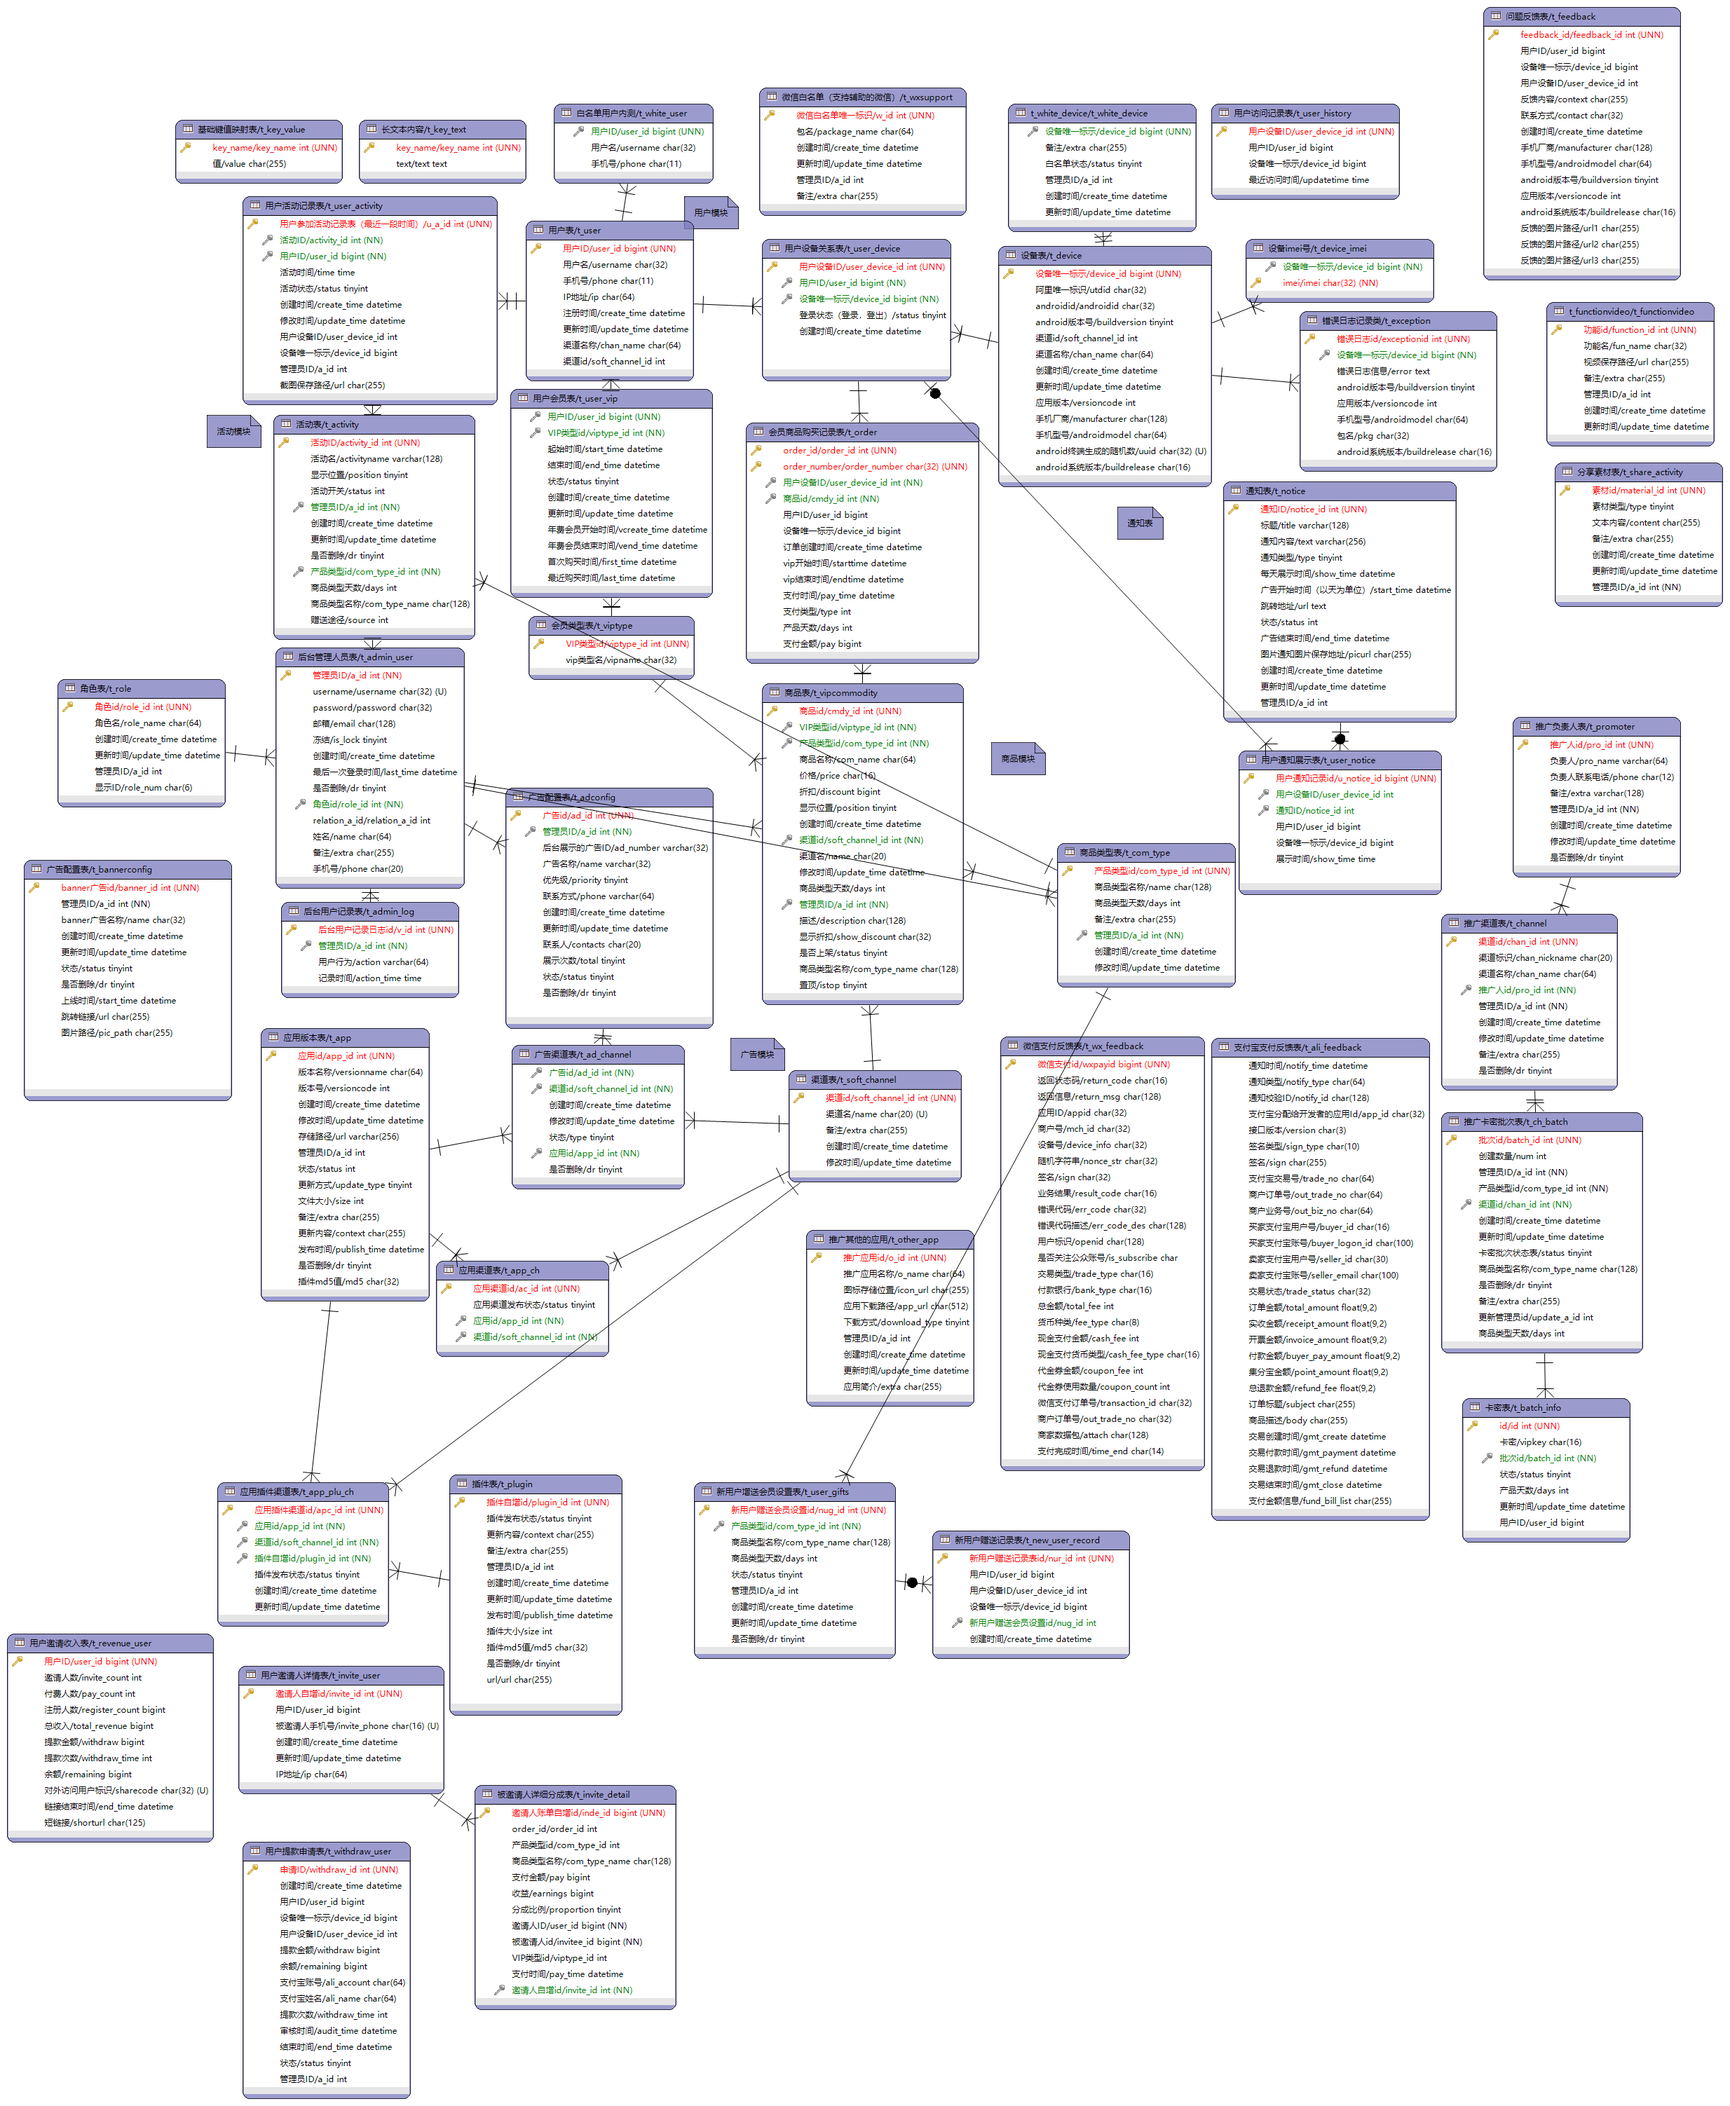
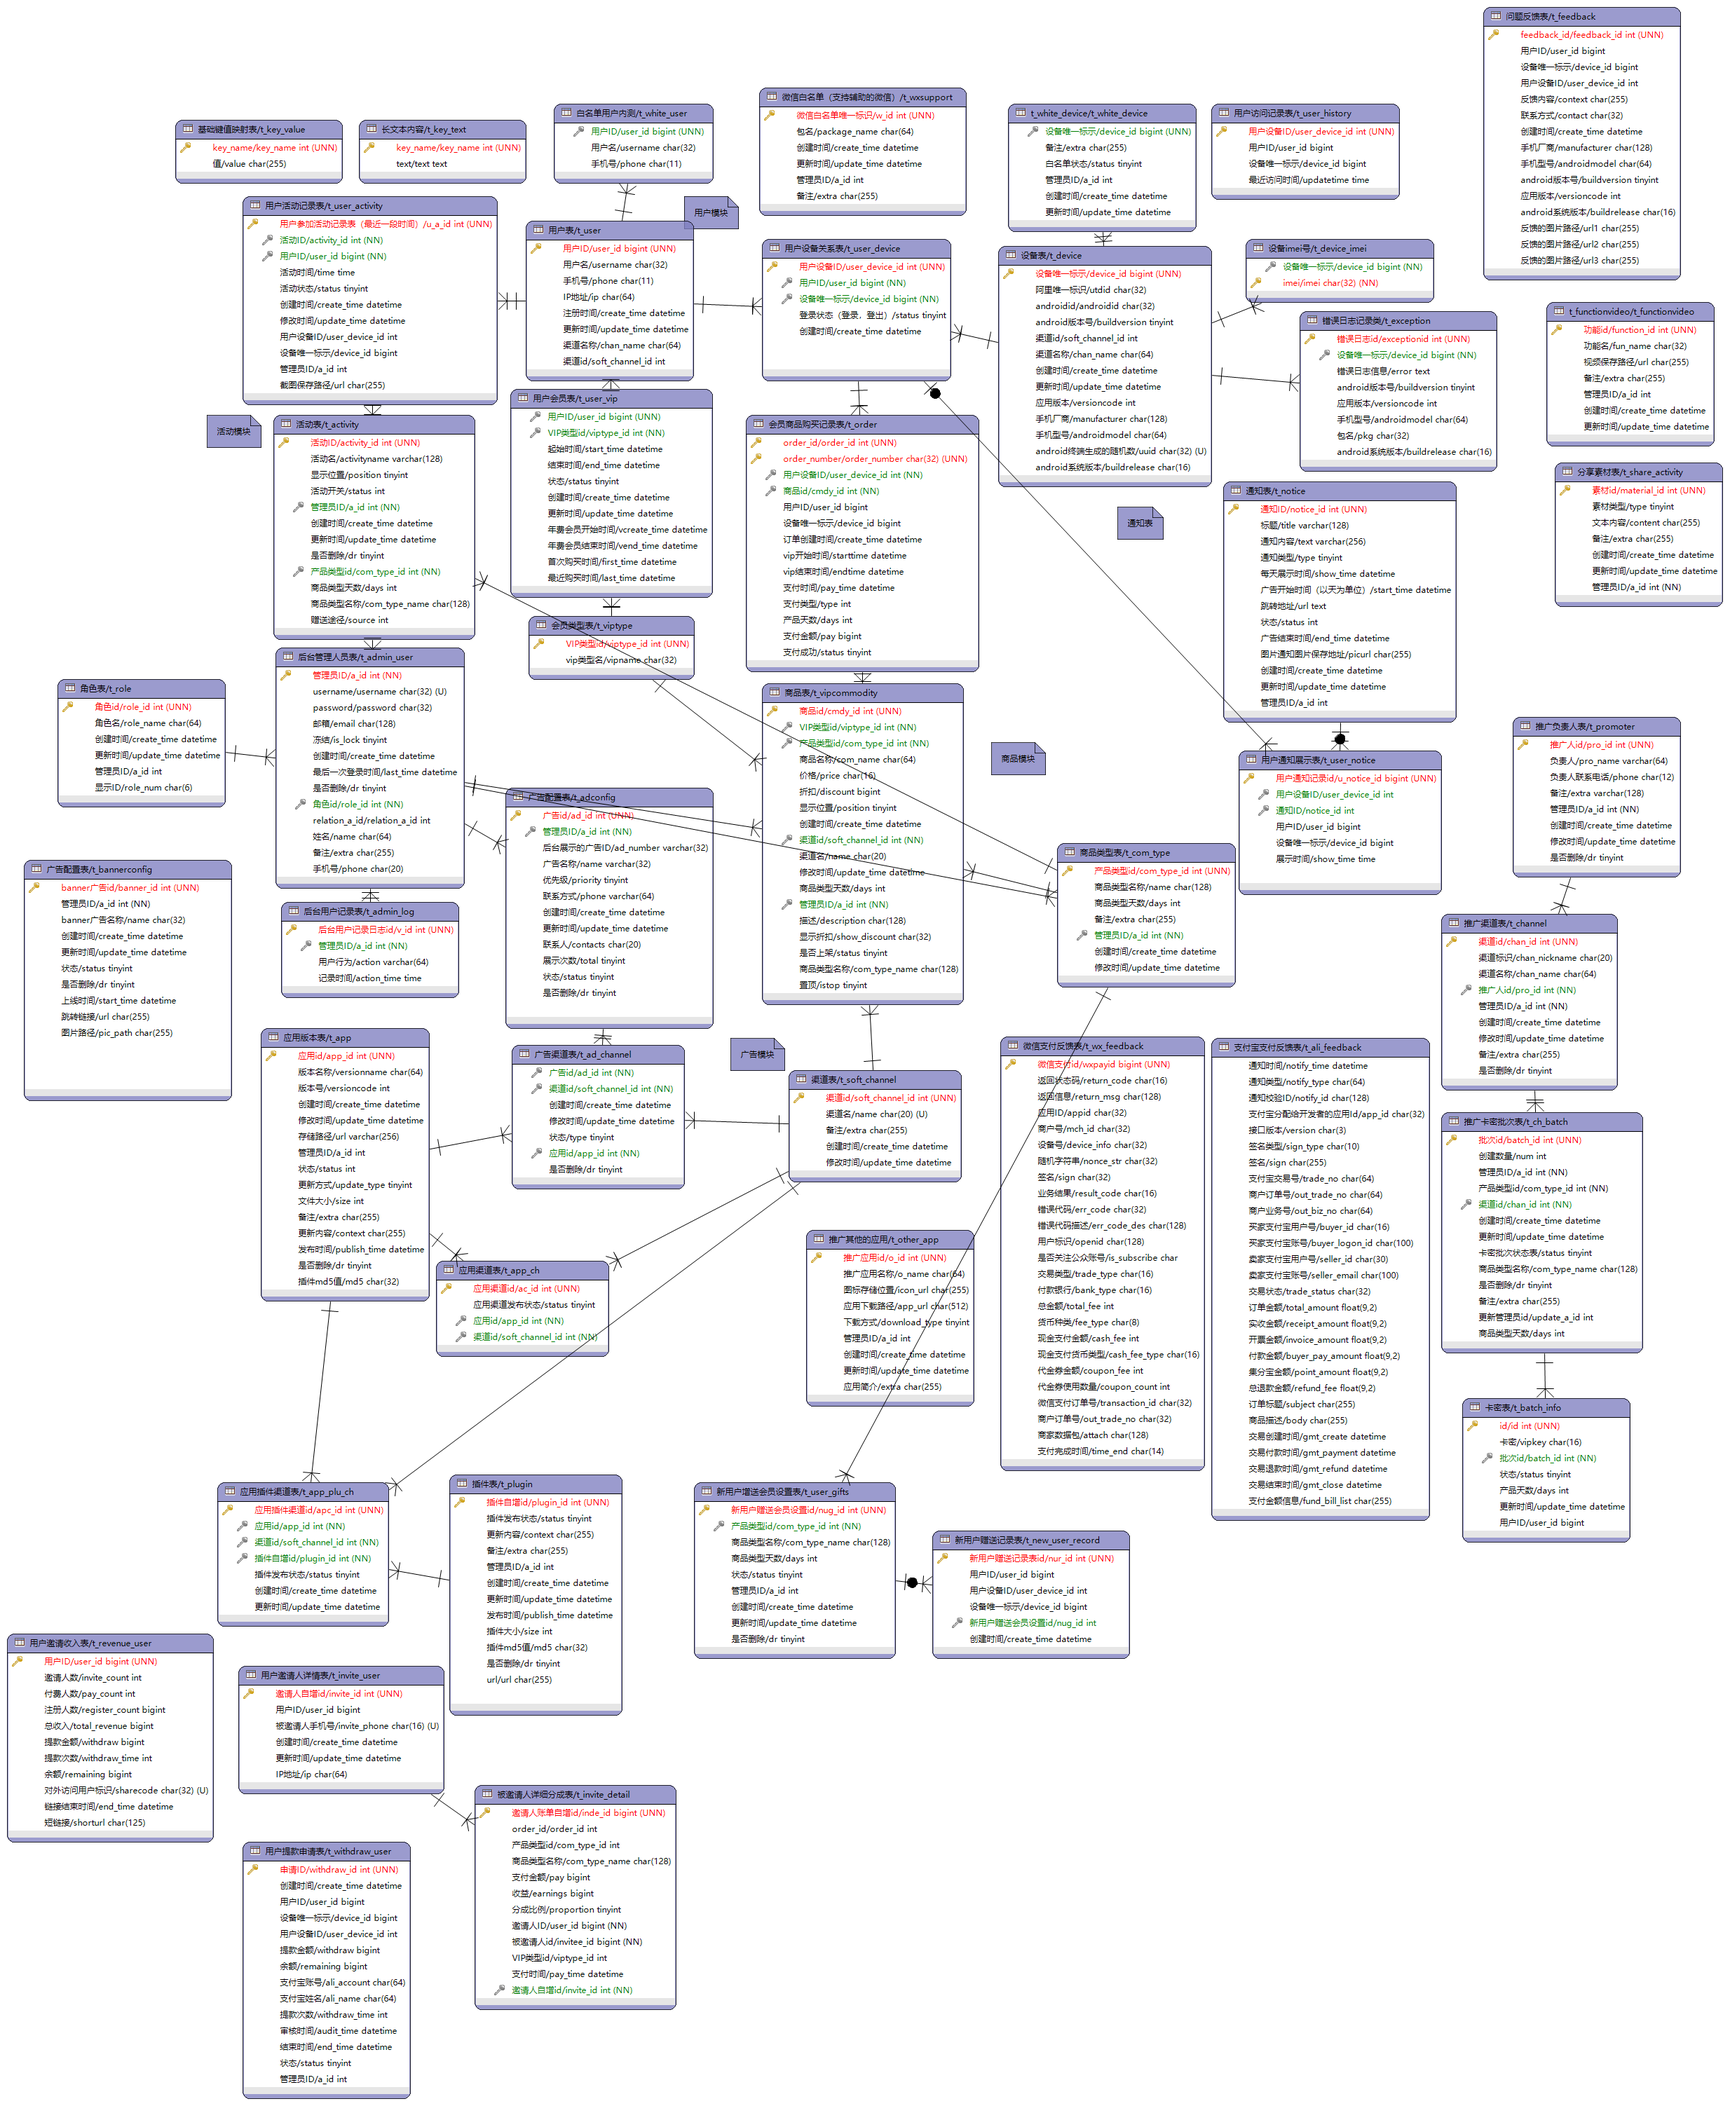
更新订单表和页面title

Changed region(s): [[0.4368, 0.1857, 0.5616, 0.3404]]

diff --git a/smartconsumer/src/main/java/com/rpa/consumer/pojo/OrderPO.java b/smartconsumer/src/main/java/com/rpa/consumer/pojo/OrderPO.java
@@ -33,6 +33,11 @@ public class OrderPO extends OrderPOKey implements Serializable {
 
     private Long pay;
 
+    /**
+     * 1 未支付  2 支付成功
+     */
+    private Byte status;
+
     private static final long serialVersionUID = 1L;
 
     public Integer getUserDeviceId() {
@@ -123,6 +128,14 @@ public class OrderPO extends OrderPOKey implements Serializable {
         this.pay = pay;
     }
 
+    public Byte getStatus() {
+        return status;
+    }
+
+    public void setStatus(Byte status) {
+        this.status = status;
+    }
+
     @Override
     public boolean equals(Object that) {
         if (this == that) {
@@ -147,7 +160,8 @@ public class OrderPO extends OrderPOKey implements Serializable {
             && (this.getPayTime() == null ? other.getPayTime() == null : this.getPayTime().equals(other.getPayTime()))
             && (this.getType() == null ? other.getType() == null : this.getType().equals(other.getType()))
             && (this.getDays() == null ? other.getDays() == null : this.getDays().equals(other.getDays()))
-            && (this.getPay() == null ? other.getPay() == null : this.getPay().equals(other.getPay()));
+            && (this.getPay() == null ? other.getPay() == null : this.getPay().equals(other.getPay()))
+            && (this.getStatus() == null ? other.getStatus() == null : this.getStatus().equals(other.getStatus()));
     }
 
     @Override
@@ -167,6 +181,7 @@ public class OrderPO extends OrderPOKey implements Serializable {
         result = prime * result + ((getType() == null) ? 0 : getType().hashCode());
         result = prime * result + ((getDays() == null) ? 0 : getDays().hashCode());
         result = prime * result + ((getPay() == null) ? 0 : getPay().hashCode());
+        result = prime * result + ((getStatus() == null) ? 0 : getStatus().hashCode());
         return result;
     }
 
@@ -187,6 +202,7 @@ public class OrderPO extends OrderPOKey implements Serializable {
         sb.append(", type=").append(type);
         sb.append(", days=").append(days);
         sb.append(", pay=").append(pay);
+        sb.append(", status=").append(status);
         sb.append(", serialVersionUID=").append(serialVersionUID);
         sb.append("]");
         return sb.toString();

diff --git a/smartpay/src/main/java/com/rpa/pay/pojo/OrderPO.java b/smartpay/src/main/java/com/rpa/pay/pojo/OrderPO.java
@@ -33,6 +33,11 @@ public class OrderPO extends OrderPOKey implements Serializable {
 
     private Long pay;
 
+    /**
+     * 1 未支付  2 支付成功
+     */
+    private Byte status;
+
     private static final long serialVersionUID = 1L;
 
     public Integer getUserDeviceId() {
@@ -123,6 +128,14 @@ public class OrderPO extends OrderPOKey implements Serializable {
         this.pay = pay;
     }
 
+    public Byte getStatus() {
+        return status;
+    }
+
+    public void setStatus(Byte status) {
+        this.status = status;
+    }
+
     @Override
     public boolean equals(Object that) {
         if (this == that) {
@@ -147,7 +160,8 @@ public class OrderPO extends OrderPOKey implements Serializable {
             && (this.getPayTime() == null ? other.getPayTime() == null : this.getPayTime().equals(other.getPayTime()))
             && (this.getType() == null ? other.getType() == null : this.getType().equals(other.getType()))
             && (this.getDays() == null ? other.getDays() == null : this.getDays().equals(other.getDays()))
-            && (this.getPay() == null ? other.getPay() == null : this.getPay().equals(other.getPay()));
+            && (this.getPay() == null ? other.getPay() == null : this.getPay().equals(other.getPay()))
+            && (this.getStatus() == null ? other.getStatus() == null : this.getStatus().equals(other.getStatus()));
     }
 
     @Override
@@ -167,6 +181,7 @@ public class OrderPO extends OrderPOKey implements Serializable {
         result = prime * result + ((getType() == null) ? 0 : getType().hashCode());
         result = prime * result + ((getDays() == null) ? 0 : getDays().hashCode());
         result = prime * result + ((getPay() == null) ? 0 : getPay().hashCode());
+        result = prime * result + ((getStatus() == null) ? 0 : getStatus().hashCode());
         return result;
     }
 
@@ -187,6 +202,7 @@ public class OrderPO extends OrderPOKey implements Serializable {
         sb.append(", type=").append(type);
         sb.append(", days=").append(days);
         sb.append(", pay=").append(pay);
+        sb.append(", status=").append(status);
         sb.append(", serialVersionUID=").append(serialVersionUID);
         sb.append("]");
         return sb.toString();

diff --git a/smartweb/src/main/java/com/rpa/web/pojo/OrderPO.java b/smartweb/src/main/java/com/rpa/web/pojo/OrderPO.java
@@ -33,6 +33,11 @@ public class OrderPO extends OrderPOKey implements Serializable {
 
     private Long pay;
 
+    /**
+     * 1 未支付  2 支付成功
+     */
+    private Byte status;
+
     private static final long serialVersionUID = 1L;
 
     public Integer getUserDeviceId() {
@@ -123,6 +128,14 @@ public class OrderPO extends OrderPOKey implements Serializable {
         this.pay = pay;
     }
 
+    public Byte getStatus() {
+        return status;
+    }
+
+    public void setStatus(Byte status) {
+        this.status = status;
+    }
+
     @Override
     public boolean equals(Object that) {
         if (this == that) {
@@ -147,7 +160,8 @@ public class OrderPO extends OrderPOKey implements Serializable {
             && (this.getPayTime() == null ? other.getPayTime() == null : this.getPayTime().equals(other.getPayTime()))
             && (this.getType() == null ? other.getType() == null : this.getType().equals(other.getType()))
             && (this.getDays() == null ? other.getDays() == null : this.getDays().equals(other.getDays()))
-            && (this.getPay() == null ? other.getPay() == null : this.getPay().equals(other.getPay()));
+            && (this.getPay() == null ? other.getPay() == null : this.getPay().equals(other.getPay()))
+            && (this.getStatus() == null ? other.getStatus() == null : this.getStatus().equals(other.getStatus()));
     }
 
     @Override
@@ -167,6 +181,7 @@ public class OrderPO extends OrderPOKey implements Serializable {
         result = prime * result + ((getType() == null) ? 0 : getType().hashCode());
         result = prime * result + ((getDays() == null) ? 0 : getDays().hashCode());
         result = prime * result + ((getPay() == null) ? 0 : getPay().hashCode());
+        result = prime * result + ((getStatus() == null) ? 0 : getStatus().hashCode());
         return result;
     }
 
@@ -187,6 +202,7 @@ public class OrderPO extends OrderPOKey implements Serializable {
         sb.append(", type=").append(type);
         sb.append(", days=").append(days);
         sb.append(", pay=").append(pay);
+        sb.append(", status=").append(status);
         sb.append(", serialVersionUID=").append(serialVersionUID);
         sb.append("]");
         return sb.toString();

diff --git a/smartweb/src/main/java/com/rpa/web/filter/SessionFilter.java b/smartweb/src/main/java/com/rpa/web/filter/SessionFilter.java
@@ -19,7 +19,7 @@ import java.util.List;
 public class SessionFilter implements Filter {
 
     // 不需要登录就可以访问的路径(比如:注册登录等)
-    String[] includeUrls = new String[]{"/login", "/entry", "/login/get/checkcode", "/"};
+    String[] includeUrls = new String[]{"/login", "/entry", "/login/get/checkcode", "/","/favicon.ico"};
     List<String> excludeList = new ArrayList<>();
 
     public SessionFilter() {

diff --git a/smartweb/src/main/java/com/rpa/web/mapper/OrderMapper.java b/smartweb/src/main/java/com/rpa/web/mapper/OrderMapper.java
@@ -1,7 +1,6 @@
 package com.rpa.web.mapper;
 
 import com.rpa.web.domain.OrderDO;
-import com.rpa.web.pojo.OrderPO;
 import com.rpa.web.pojo.OrderPOKey;
 import org.apache.ibatis.annotations.Mapper;
 

diff --git a/smartserver/v1.0.md b/smartserver/v1.0.md
@@ -1083,7 +1083,8 @@
             "shareurl":"",
             "problemurl":"",
             "freevip":"",
-            "protocol":""
+            "protocol":"",
+            "vipprotocol":""
 		}
 	}
 ```
